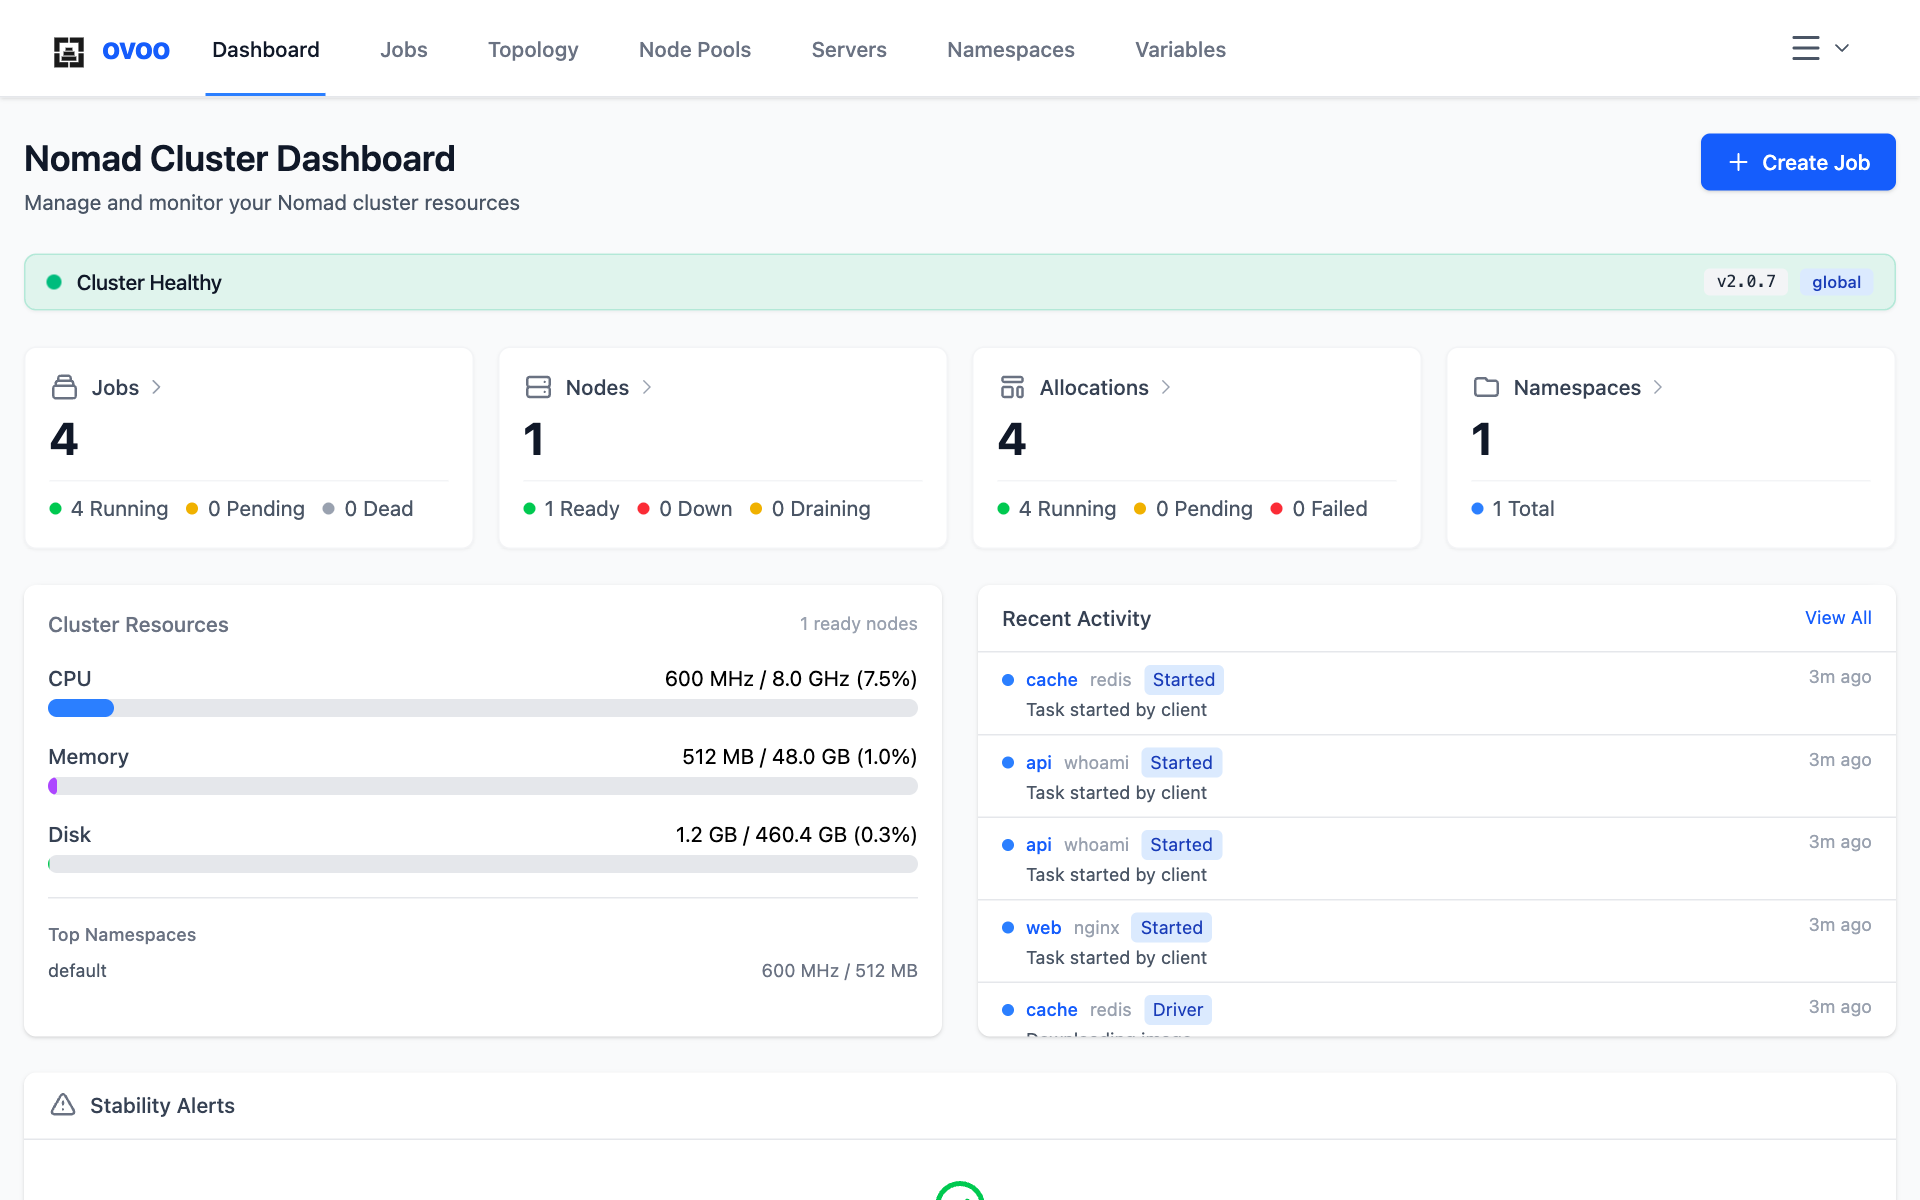
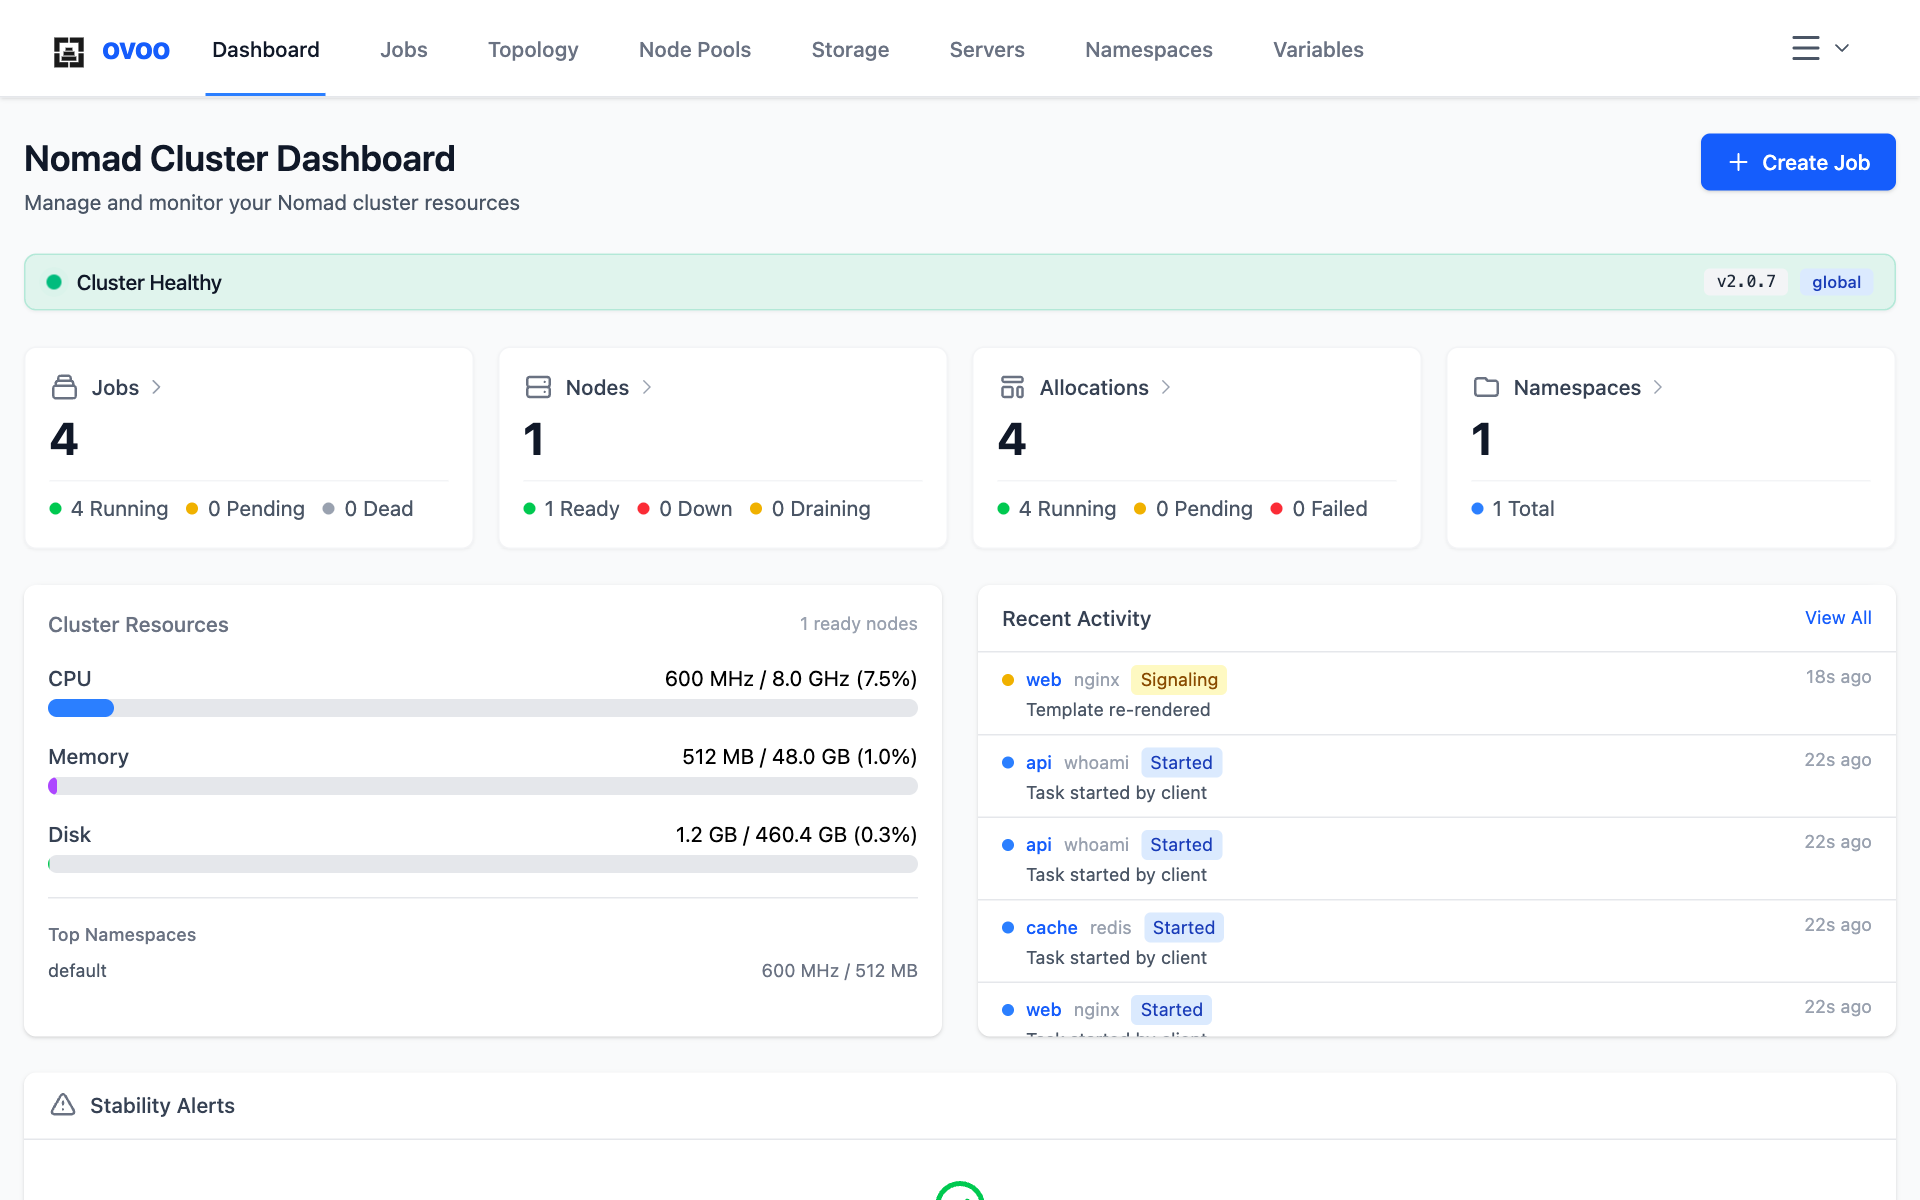
docs(storage): describe the storage page and refresh the screenshots

diff --git a/docs/usage.md b/docs/usage.md
@@ -245,6 +245,46 @@ scheduling pools for targeted workloads:
 - **Node integration**: the Nodes page (`/nodes`) displays the node pool badge
   for each node and allows direct navigation to Node Pools management.
 
+## Storage (CSI volumes)
+
+The Storage page (`/storage`) lists the CSI volumes of all namespaces and the
+CSI plugins that serve them.
+
+- **Volumes**: each volume with its namespace, plugin, access mode, the number
+  of allocations that read or write it, and its health. A volume is
+  *degraded* when some of its plugin controllers or nodes are unhealthy, and
+  *unschedulable* when Nomad cannot place new claims on it.
+- **Volume details**: capacity, provider, external ID, capabilities, mount
+  options, topology, parameters, and the allocations that use the
+  volume with their claim (read or write). Nomad hides the mount flags and
+  secrets, so the page shows them as `[REDACTED]`.
+- **Register Volume**: registers a volume that already exists at the storage
+  provider, like `nomad volume register`. The form takes the volume ID, name,
+  namespace, plugin, external ID, one or more capabilities (access and
+  attachment mode), file system, mount flags and parameters. There is no HCL
+  editor: Nomad's API takes JSON only.
+- **Deregister**: removes a volume from Nomad; the data at the provider stays.
+  Nomad refuses while an allocation uses the volume. *Force* drops the claims
+  of finished allocations right away, but Nomad still refuses while a running
+  allocation uses the volume.
+- **Snapshot**: takes a snapshot of a volume with the name you give and shows
+  its ID, size and readiness. The button appears only when the controller of
+  the plugin supports snapshots.
+- **Plugins**: each plugin with its provider, healthy and expected controllers
+  and nodes. The plugin page lists the controller features (create and delete
+  volumes, snapshots, expansion) and every running controller and node
+  instance with its node, health and allocation.
+
+Listing volumes needs the `csi-list-volume` capability and the details need
+`csi-read-volume`. Registering, deregistering and snapshots need
+`csi-write-volume`; registering and snapshots also need `plugin` read.
+Listing plugins needs `plugin` list, a plugin page needs `plugin` read.
+
+The page does not create or delete volumes at the provider, detach them from
+nodes, list snapshots or manage dynamic host volumes.
+
+![A CSI volume with its capabilities, mount options and claims](images/storage.png)
+
 ## Servers & Raft consensus
 
 The Servers page (`/servers`) monitors the Nomad control plane:

diff --git a/README.md b/README.md
@@ -47,6 +47,8 @@ Formerly Nomad Compass.
   search, and form/JSON editors.
 - Manages Node Pools and scheduler algorithms (spread vs binpack) across cluster
   nodes.
+- Lists CSI volumes of all namespaces and their plugins, registers and
+  deregisters volumes, and takes volume snapshots.
 - Works on mobile as an installable Progressive Web App (PWA) with a bottom
   navigation bar, touch-friendly card views, floating actions, offline app shell
   caching, and virtual terminal keys.
